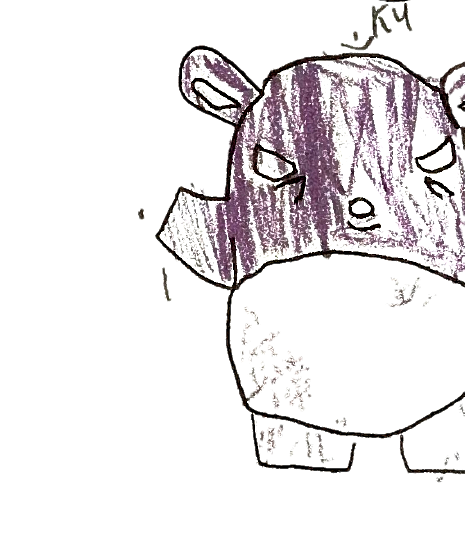
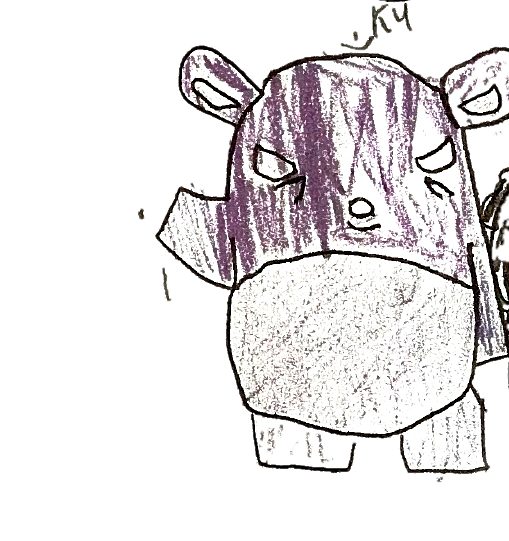
Widen Baku crop box to rescue right ear and foot

Changed region(s): [[0.271, 0.0, 1.0, 0.8872]]

diff --git a/process_image2.py b/process_image2.py
@@ -17,7 +17,7 @@ boxes = {
     "koni": (0.34, 0.58, 0.16, 0.13),
     "chumi": (0.22, 0.72, 0.15, 0.15),
     "konmi": (0.42, 0.68, 0.10, 0.17),
-    "baku": (0.50, 0.58, 0.32, 0.26),
+    "baku": (0.50, 0.58, 0.35, 0.26),
     "wanmi": (0.82, 0.63, 0.18, 0.18),
 }
 